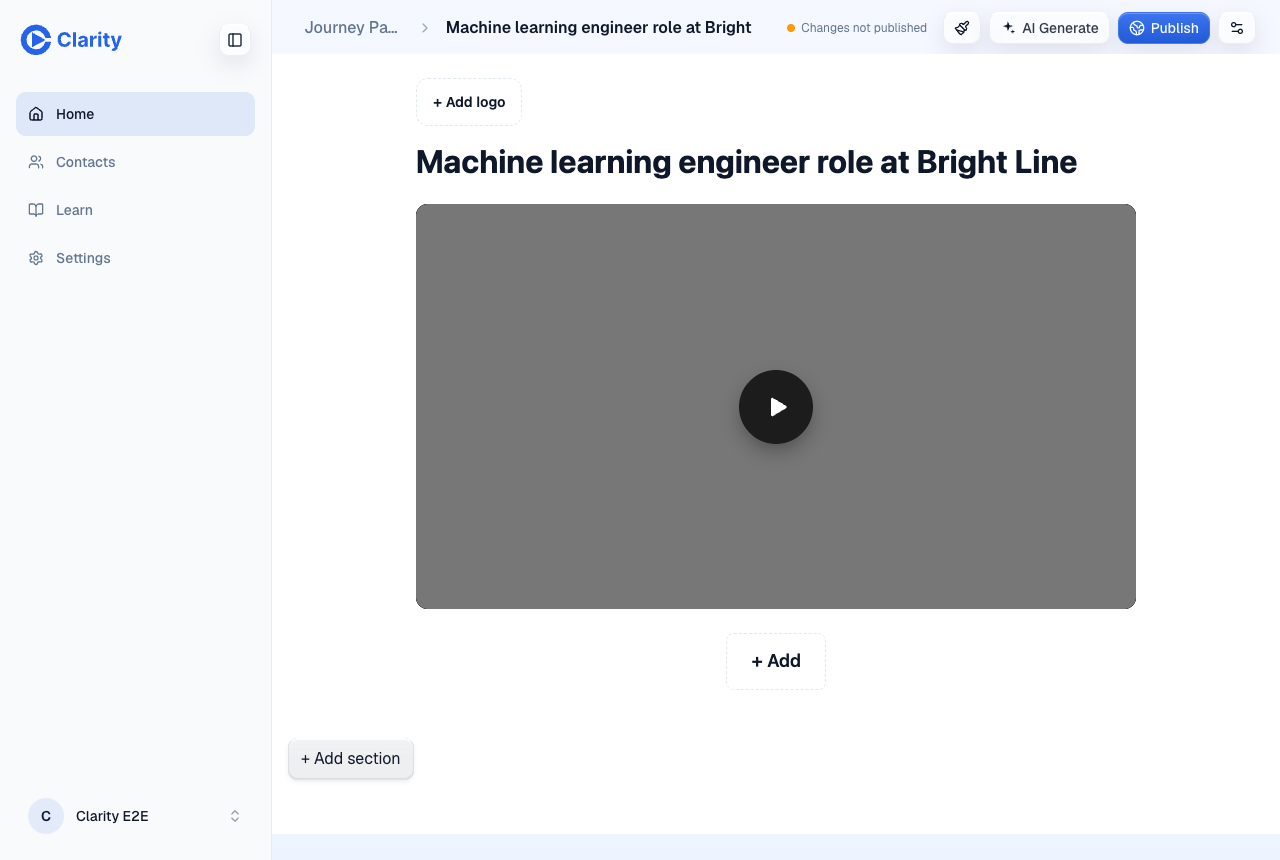
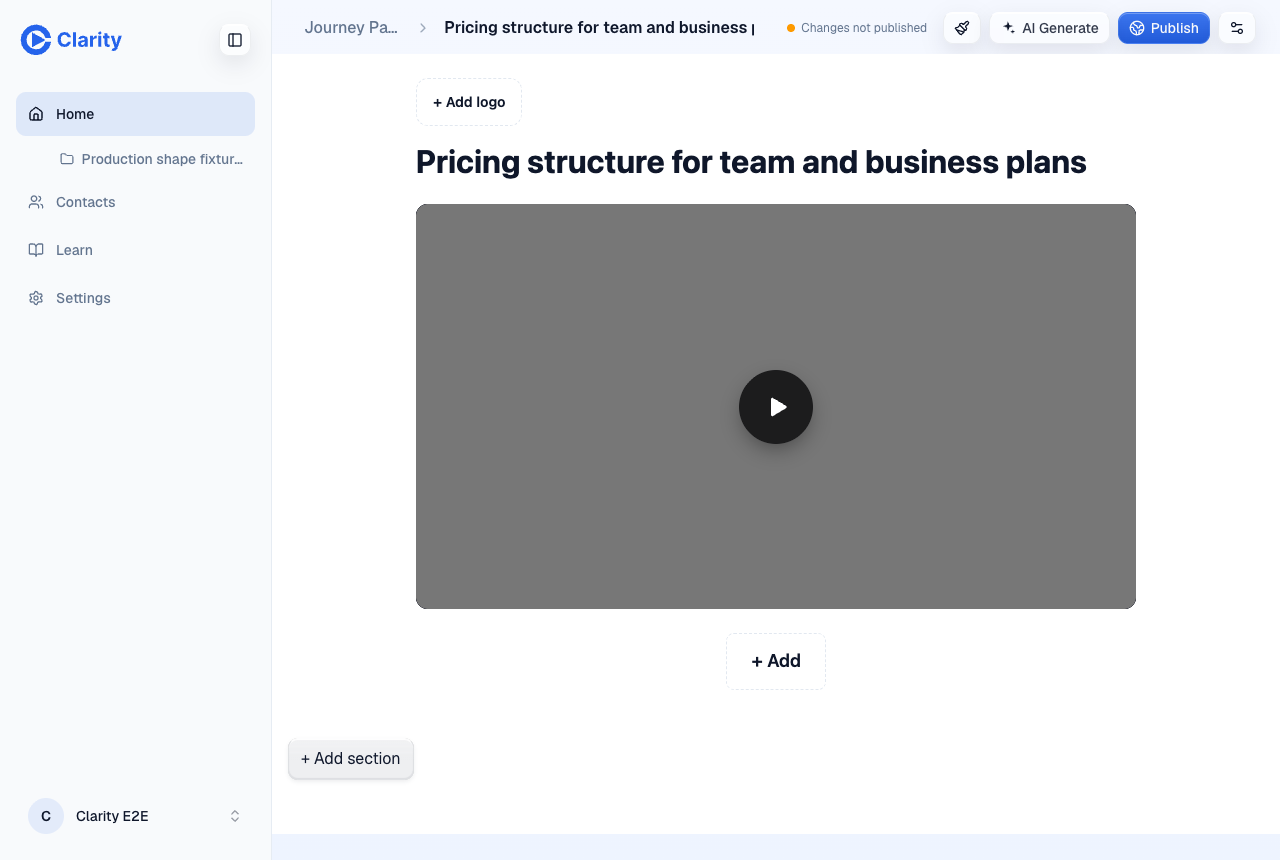
Publish auto-title-v2-pr-1397 (20261008T160235Z)

diff --git a/auto-title-v2-pr-1397/index.html b/auto-title-v2-pr-1397/index.html
@@ -10,12 +10,12 @@ table{min-width:560px;border-collapse:collapse;width:100%;font-size:14px}th,td{t
 th{color:#475569;font-weight:600}.muted{color:#64748b}code{background:#f1f5f9;padding:1px 4px;border-radius:4px}
 </style></head><body>
 <h1>Automatic video titles, rebuilt on the transcript</h1>
-<p class="muted">PR <a href="https://github.com/Clarity-Video-HQ/clarity/pull/1397">#1397</a>, preview pr-1397 at commit c99485fa, 2026-10-08. Takes are synthetic sales scripts read by text-to-speech, plus Clarity's own internal test take.</p>
+<p class="muted">PR <a href="https://github.com/Clarity-Video-HQ/clarity/pull/1397">#1397</a>, preview pr-1397, 2026-10-08. Screenshots are from the final commit 53ddd3b6; the table is the first batch on c99485fa, rerun on 53ddd3b6 with the same outcomes. Takes are synthetic sales scripts read by text-to-speech, plus Clarity's own internal test take.</p>
 
 <h2>A recording's share page, saved in the editor before its title arrived</h2>
 <div class="pair">
 <figure><img src="before-share.png" alt="Share page with no headline"><figcaption>Before. The take is "Untitled Video", so the page has no headline, and its &lt;title&gt; and og:title read "Untitled Video".</figcaption></figure>
-<figure><img src="after-share.png" alt="Share page headed Machine learning engineer role at Bright Line"><figcaption>After. About a minute later the take is titled from its transcript and the empty headline follows it. The page was saved once in between (revision 2).</figcaption></figure>
+<figure><img src="after-share.png" alt="Share page headed Pricing structure for team and business plans"><figcaption>After. About 50 seconds after Stop the take is titled from its transcript and the empty headline follows it. The page was saved once in between (revision 2).</figcaption></figure>
 </div>
 <figure style="margin-top:16px"><img src="after-editor.png" alt="Editor showing the followed title in the heading and top bar"><figcaption>The editor shows the same followed title in the heading and the top bar without storing it, so a later video rename still flows through.</figcaption></figure>
 
@@ -23,7 +23,7 @@ th{color:#475569;font-weight:600}.muted{color:#64748b}code{background:#f1f5f9;pa
 <div style="overflow-x:auto"><table><tr><th>Take</th><th>Before</th><th>After</th><th>Why</th></tr>
 <tr><td>Recording, pricing follow-up</td><td>Untitled Video</td><td>Pricing structure for team and business tiers</td><td>Titled, auto-trimmed</td></tr>
 <tr><td>Recording, Clarity test take</td><td>Untitled Video</td><td>How to record educational presentations with slides</td><td>Titled, auto-trimmed</td></tr>
-<tr><td>Recording, recruiting outreach (page saved early)</td><td>Untitled Video</td><td>Machine learning engineer role at Bright Line</td><td>Titled, page follows (shown above)</td></tr>
+<tr><td>Recording, recruiting outreach (page saved early)</td><td>Untitled Video</td><td>Machine learning engineer role at Bright Line</td><td>Titled, page follows</td></tr>
 <tr><td>Recording renamed by the rep at Stop</td><td>Jenna intro, take 2</td><td>Jenna intro, take 2</td><td>Person's name wins</td></tr>
 <tr><td>Recording in Swedish</td><td>Untitled Video</td><td>Untitled Video</td><td>Not English, no model call</td></tr>
 <tr><td>Recording with no speech</td><td>Untitled Video</td><td>Untitled Video</td><td>Mux found no speech, no job</td></tr>

diff --git a/index.html b/index.html
@@ -1,6 +1,7 @@
 <!doctype html><meta charset="utf-8"><title>Clarity design previews</title>
 <style>body{font-family:system-ui,sans-serif;max-width:40rem;margin:4rem auto;padding:0 1rem;color:#0f172a}a{color:#2563eb}li{margin:.4rem 0}</style>
 <h1>Clarity design previews</h1>
+<li><a href="./auto-title-v2-pr-1397/">Auto-title v2: before and after (PR #1397)</a> <small>20261008T160235Z</small></li>
 <li><a href="./auto-title-v2-pr-1397/">Auto-title v2: before and after (PR #1397)</a> <small>20261008T152054Z</small></li>
 <li><a href="./auto-title-v2-pr-1397/">Auto-title v2: before and after (PR #1397)</a> <small>20261008T151229Z</small></li>
 <li><a href="./auto-title-v2-pr-1397/">Auto-title v2: before and after (PR #1397)</a> <small>20261008T145853Z</small></li>
